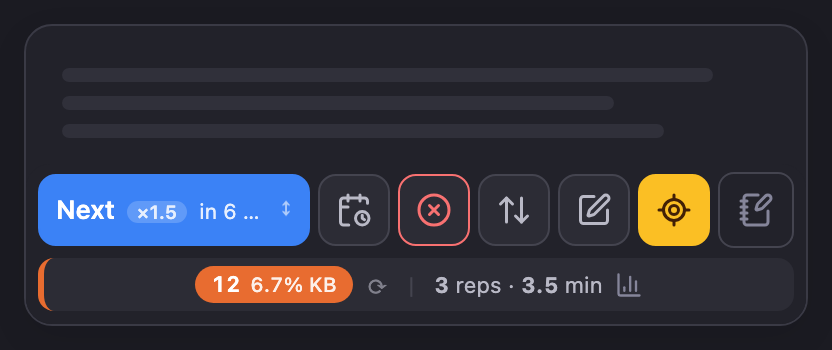
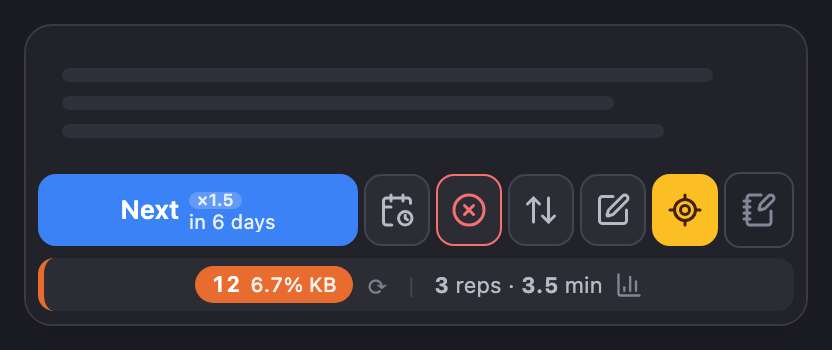
feat: update changelog for v1.0.240; enhance mobile button display and improve answer button layout

Changed region(s): [[0.0625, 0.4857, 0.9375, 0.7143], [0.6562, 0.6857, 0.7188, 0.7143]]

diff --git a/src/widgets/answer_buttons.tsx b/src/widgets/answer_buttons.tsx
@@ -352,8 +352,8 @@ export function AnswerButtons() {
   // the frame's own width, which is the queue's, so a narrow desktop pane gets it too.
   const [barWidth, setBarWidth] = useState(() => window.innerWidth);
   const narrow = barWidth > 0 && barWidth < NARROW_BAR_PX;
-  // On the smallest phones the scheduler's chip gives its place to the interval.
-  const tight = barWidth > 0 && barWidth < 360;
+  // Below this the icon buttons shrink a little, so Next keeps room for its interval.
+  const small = barWidth > 0 && barWidth < 400;
   useEffect(() => {
     const onResize = () => setBarWidth(window.innerWidth);
     onResize();
@@ -418,7 +418,7 @@ export function AnswerButtons() {
 
   const buttonRowStyle: React.CSSProperties = {
     display: 'flex',
-    gap: narrow ? '4px' : '6px',
+    gap: narrow ? (small ? '3px' : '4px') : '6px',
     alignItems: 'center',
     justifyContent: 'center',
     flexWrap: 'wrap',
@@ -437,7 +437,7 @@ export function AnswerButtons() {
   // button row fits on one line beside the conditional buttons. On a narrow bar
   // they are squares with the icon alone; the label stays in the tooltip.
   const compactButtonStyle: React.CSSProperties = narrow
-    ? { minWidth: '36px', width: '36px', height: '36px', padding: 0, gap: 0 }
+    ? { minWidth: small ? '33px' : '36px', width: small ? '33px' : '36px', height: '36px', padding: 0, gap: 0 }
     : { minWidth: '56px', padding: '5px 8px', gap: '3px' };
   const iconSize = narrow ? 18 : 15;
   const label = (text: string, strong = false) =>
@@ -446,7 +446,7 @@ export function AnswerButtons() {
   // The quiet controls at the end of the row: note, help.
   const quietButtonStyle = (active: boolean): React.CSSProperties => ({
     cursor: 'pointer',
-    width: narrow ? '36px' : '30px',
+    width: narrow ? (small ? '33px' : '36px') : '30px',
     height: narrow ? '36px' : '30px',
     borderRadius: '8px',
     display: 'flex',
@@ -532,25 +532,39 @@ export function AnswerButtons() {
           overlayDownText="Repeat today"
           dragThreshold={12}
           title="Next (Cmd+Right on Mac; Ctrl+Right on Windows/Linux): Mark as reviewed, calculate next interval, and advance to next item"
-          // On a narrow bar Next takes the room the icon buttons leave.
-          wrapperStyle={narrow ? { flex: '1 1 96px', minWidth: 0 } : undefined}
-          style={narrow ? { width: '100%', minWidth: 0, height: '36px', padding: '0 8px', overflow: 'hidden' } : undefined}
+          // On a narrow bar Next takes the room the icon buttons leave. Its small basis
+          // makes it shrink, on the narrowest phones, rather than push a button onto a
+          // second row.
+          wrapperStyle={narrow ? { flex: '1 1 72px', minWidth: 0 } : undefined}
+          style={narrow ? { width: '100%', minWidth: 0, height: '36px', padding: small ? '0 6px' : '0 8px', overflow: 'hidden' } : undefined}
+          hideGrip={narrow}
         >
-          {/* DraggableButton lays its children out in a row (beside the ↕ grip):
-              the two lines are stacked here, or run on one line on a narrow bar. */}
+          {/* DraggableButton lays its children out in a row (beside the ↕ grip).
+              Wide: "Next" over its interval. Narrow: "Next" beside a small two-line
+              block, the scheduler chip over the interval, so the interval is read in
+              full at the button's height. */}
           <div
             style={{
               display: 'flex',
               flexDirection: narrow ? 'row' : 'column',
-              alignItems: narrow ? 'baseline' : 'center',
-              gap: narrow ? '6px' : '3px',
+              alignItems: 'center',
+              gap: narrow ? (small ? '5px' : '7px') : '3px',
               minWidth: 0,
               overflow: 'hidden',
             }}
           >
-            <div style={{ ...buttonStyles.label, flex: 'none' }}>Next</div>
-            <div style={{ ...buttonStyles.sublabel, whiteSpace: 'nowrap', overflow: 'hidden', textOverflow: 'ellipsis', minWidth: 0 }}>
-              <NextRepTime rem={incRemInfo} showScheduler={!tight} />
+            <div style={{ ...buttonStyles.label, flex: 'none', fontSize: narrow ? (small ? '13px' : '14px') : buttonStyles.label.fontSize }}>Next</div>
+            <div
+              style={{
+                ...buttonStyles.sublabel,
+                ...(narrow ? { fontSize: '10px', lineHeight: 1.05 } : {}),
+                whiteSpace: 'nowrap',
+                overflow: 'hidden',
+                textOverflow: 'ellipsis',
+                minWidth: 0,
+              }}
+            >
+              <NextRepTime rem={incRemInfo} showScheduler stacked={narrow} />
             </div>
           </div>
         </DraggableButton>

diff --git a/src/components/NextRepTime.tsx b/src/components/NextRepTime.tsx
@@ -11,6 +11,11 @@ export interface NextRepTimeProps {
   rem: IncrementalRem;
   /** Lead with a chip naming the scheduler that produced the interval. */
   showScheduler?: boolean;
+  /**
+   * The chip above the interval instead of beside it, in two small lines: for a
+   * narrow button, where one line would cut the interval short.
+   */
+  stacked?: boolean;
 }
 
 export function durationToHumanReadable(duration: any) {
@@ -52,6 +57,29 @@ export function NextRepTime(props: NextRepTimeProps): React.ReactElement {
   const longVersion = durationToHumanReadable(duration);
   const shortVersion = longVersion.replace(/mins/g, 'min').replace(/hours/g, 'hrs');
   const described = props.showScheduler && scheduler ? describeScheduler(scheduler) : null;
+  if (props.stacked) {
+    return (
+      <span style={{ display: 'inline-flex', flexDirection: 'column', alignItems: 'flex-start', gap: 1, lineHeight: 1.05 }}>
+        {described && (
+          <span
+            title={`Scheduler: ${described.name} (${described.source}). ${described.explanation} Change it in Reschedule.`}
+            style={{
+              padding: '0 4px',
+              borderRadius: 6,
+              fontSize: '0.85em',
+              fontWeight: 600,
+              backgroundColor: 'rgba(255, 255, 255, 0.22)',
+              boxShadow: scheduler?.source === 'item' ? '0 0 0 1px rgba(255, 255, 255, 0.75)' : 'none',
+            }}
+          >
+            {described.chip}
+          </span>
+        )}
+        {/* The narrow button (a phone): months and years as m and y, the longest words here. */}
+        <span style={{ whiteSpace: 'nowrap' }}>in {shortVersion.replace(/ months?$/, ' m').replace(/ years?$/, ' y')}</span>
+      </span>
+    );
+  }
   return (
     <>
       {described && (

diff --git a/src/components/buttons/DraggableButton.tsx b/src/components/buttons/DraggableButton.tsx
@@ -13,6 +13,8 @@ interface DraggableButtonProps {
   style?: React.CSSProperties;
   /** For the element around the button: how it sits in the caller's row (flex, width). */
   wrapperStyle?: React.CSSProperties;
+  /** Leave out the ↕ drag hint (the drag still works): for a button short of room. */
+  hideGrip?: boolean;
   title?: string;
 }
 
@@ -33,6 +35,7 @@ export function DraggableButton({
   onDragDown,
   style,
   wrapperStyle,
+  hideGrip = false,
   title,
 }: DraggableButtonProps) {
   const [dragMode, setDragMode] = React.useState<'up' | 'down' | null>(null);
@@ -180,7 +183,7 @@ export function DraggableButton({
         ) : (
           <span style={{ display: 'inline-flex', alignItems: 'center', justifyContent: 'center', gap: 6, minWidth: 0, maxWidth: '100%', overflow: 'hidden' }}>
             {children}
-            <span
+            {!hideGrip && (<span
               aria-hidden
               style={{
                 fontSize: '11px',
@@ -190,7 +193,7 @@ export function DraggableButton({
               }}
             >
               ↕
-            </span>
+            </span>)}
           </span>
         )}
       </button>

diff --git a/docs/Reviewing-Items-in-the-Queue.md b/docs/Reviewing-Items-in-the-Queue.md
@@ -70,10 +70,10 @@ This hold is within a session. Its counterpart across days is **cooling** in the
 
 Here is a breakdown of each button and its function, from left to right. Every button after **Next** is a compact icon button — icon above, one-word label below — so the whole row fits on one line; hover over any button for its full name and shortcut.
 
-**On a phone** (or in any pane narrower than 520 px) the bar shrinks to about a third of its height: one row with **Next** and its interval, then the same actions as square icon buttons without labels, and one line of figures under it (priority, repetitions, minutes). **New Tab** and the help icon are left out there.
+**On a phone** (or in any pane narrower than 520 px) the bar shrinks to about a third of its height: one row with **Next**, the same actions as square icon buttons without labels after it, and one line of figures under it (priority, repetitions, minutes). **New Tab** and the help icon are left out there. On **Next** the scheduler chip (`×1.5`) and the interval sit in two small lines beside the word, so the interval reads in full; months and years are shortened there to `m` and `y` (`in 1.3 m`, `in 2.5 y`). The ↕ drag hint is left out, but dragging Next up or down still works.
 
-![The answer buttons bar on a phone: Next with its interval, then Reschedule, Dismiss, Priority, In Editor, To Highlight and the review note as icon buttons; below it one line with the priority and the repetitions](assets/answer-bar-phone.png#only-light){ width="420" }
-![The answer buttons bar on a phone: Next with its interval, then Reschedule, Dismiss, Priority, In Editor, To Highlight and the review note as icon buttons; below it one line with the priority and the repetitions](assets/answer-bar-phone-dark.png#only-dark){ width="420" }
+![The answer buttons bar on a phone: Next with the scheduler chip over its interval, then Reschedule, Dismiss, Priority, In Editor, To Highlight and the review note as icon buttons; below it one line with the priority and the repetitions](assets/answer-bar-phone.png#only-light){ width="420" }
+![The answer buttons bar on a phone: Next with the scheduler chip over its interval, then Reschedule, Dismiss, Priority, In Editor, To Highlight and the review note as icon buttons; below it one line with the priority and the repetitions](assets/answer-bar-phone-dark.png#only-dark){ width="420" }
 
 * **[Next](#next):** (Shortcut: `Cmd+Right` on Mac, `Ctrl+Right` on Windows/Linux)
 This is your primary action. Clicking "Next" marks the item as reviewed, calculates the next time you should see it based on the scheduling algorithm, and advances to the next item in your queue. The subtitle (e.g., "×1.5 in 3 days") shows the interval that will be set, preceded by a chip naming the [scheduler](IncRem-Scheduler.md#scheduler-indicator) that produced it.

diff --git a/docs/Changelog.md b/docs/Changelog.md
@@ -2,6 +2,14 @@
 
 This page documents the major changes and improvements for each version of the Incremental RemNote plugin.
 
+## v1.0.240 - November 17th, 2026
+
+### 📝 Changed
+
+**Answer buttons on a phone**: **Next** no longer cuts its interval short. The scheduler chip (`×1.5`) and the interval sit in two small lines beside the word, at the button's usual height, and months and years are shortened to `m` and `y` (`in 1.3 m`, `in 2.5 y`). On the narrowest phones the icon buttons get a little smaller, and Next shrinks rather than pushing a button onto a second row.
+
+📖 [Reviewing Items in the Queue → The Answer Buttons](Reviewing-Items-in-the-Queue.md#the-answer-buttons)
+
 ## v1.0.239 - November 17th, 2026
 
 ### 📝 Changed
